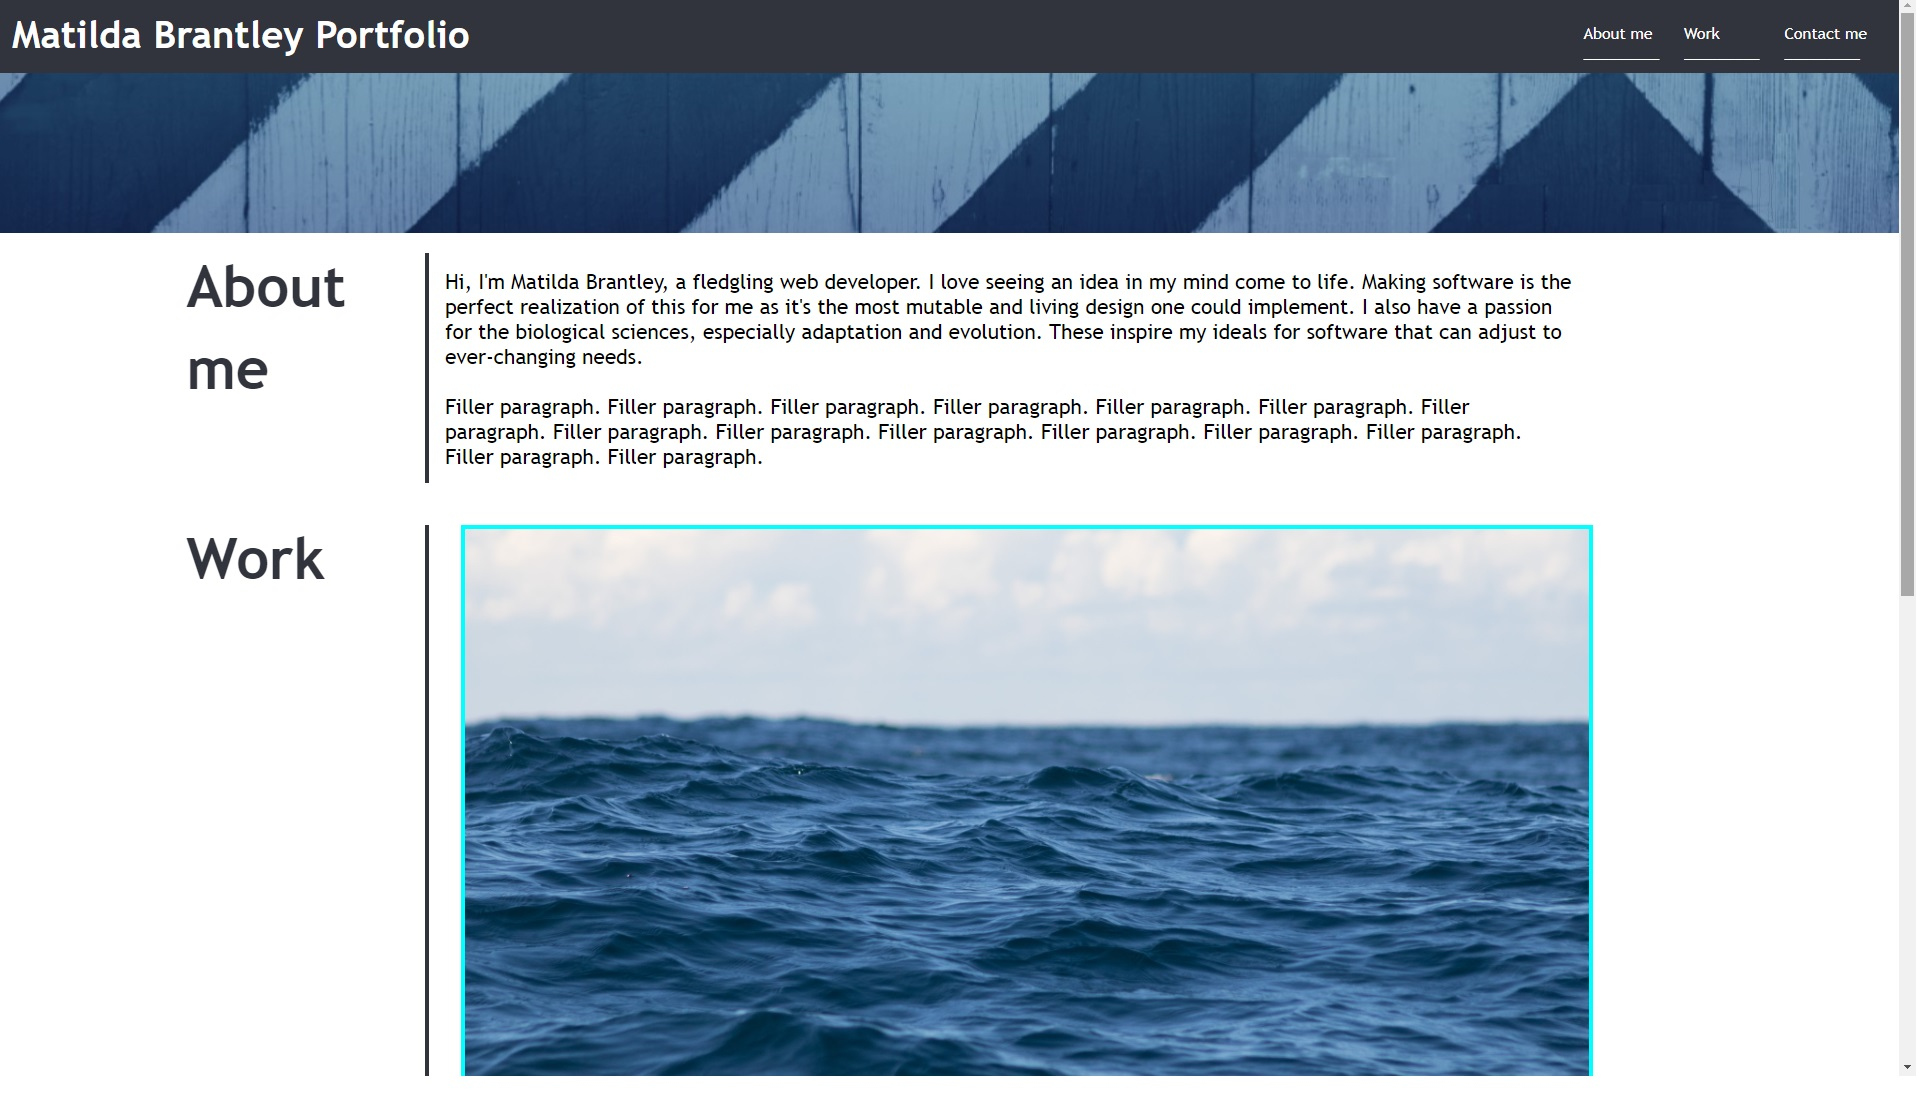
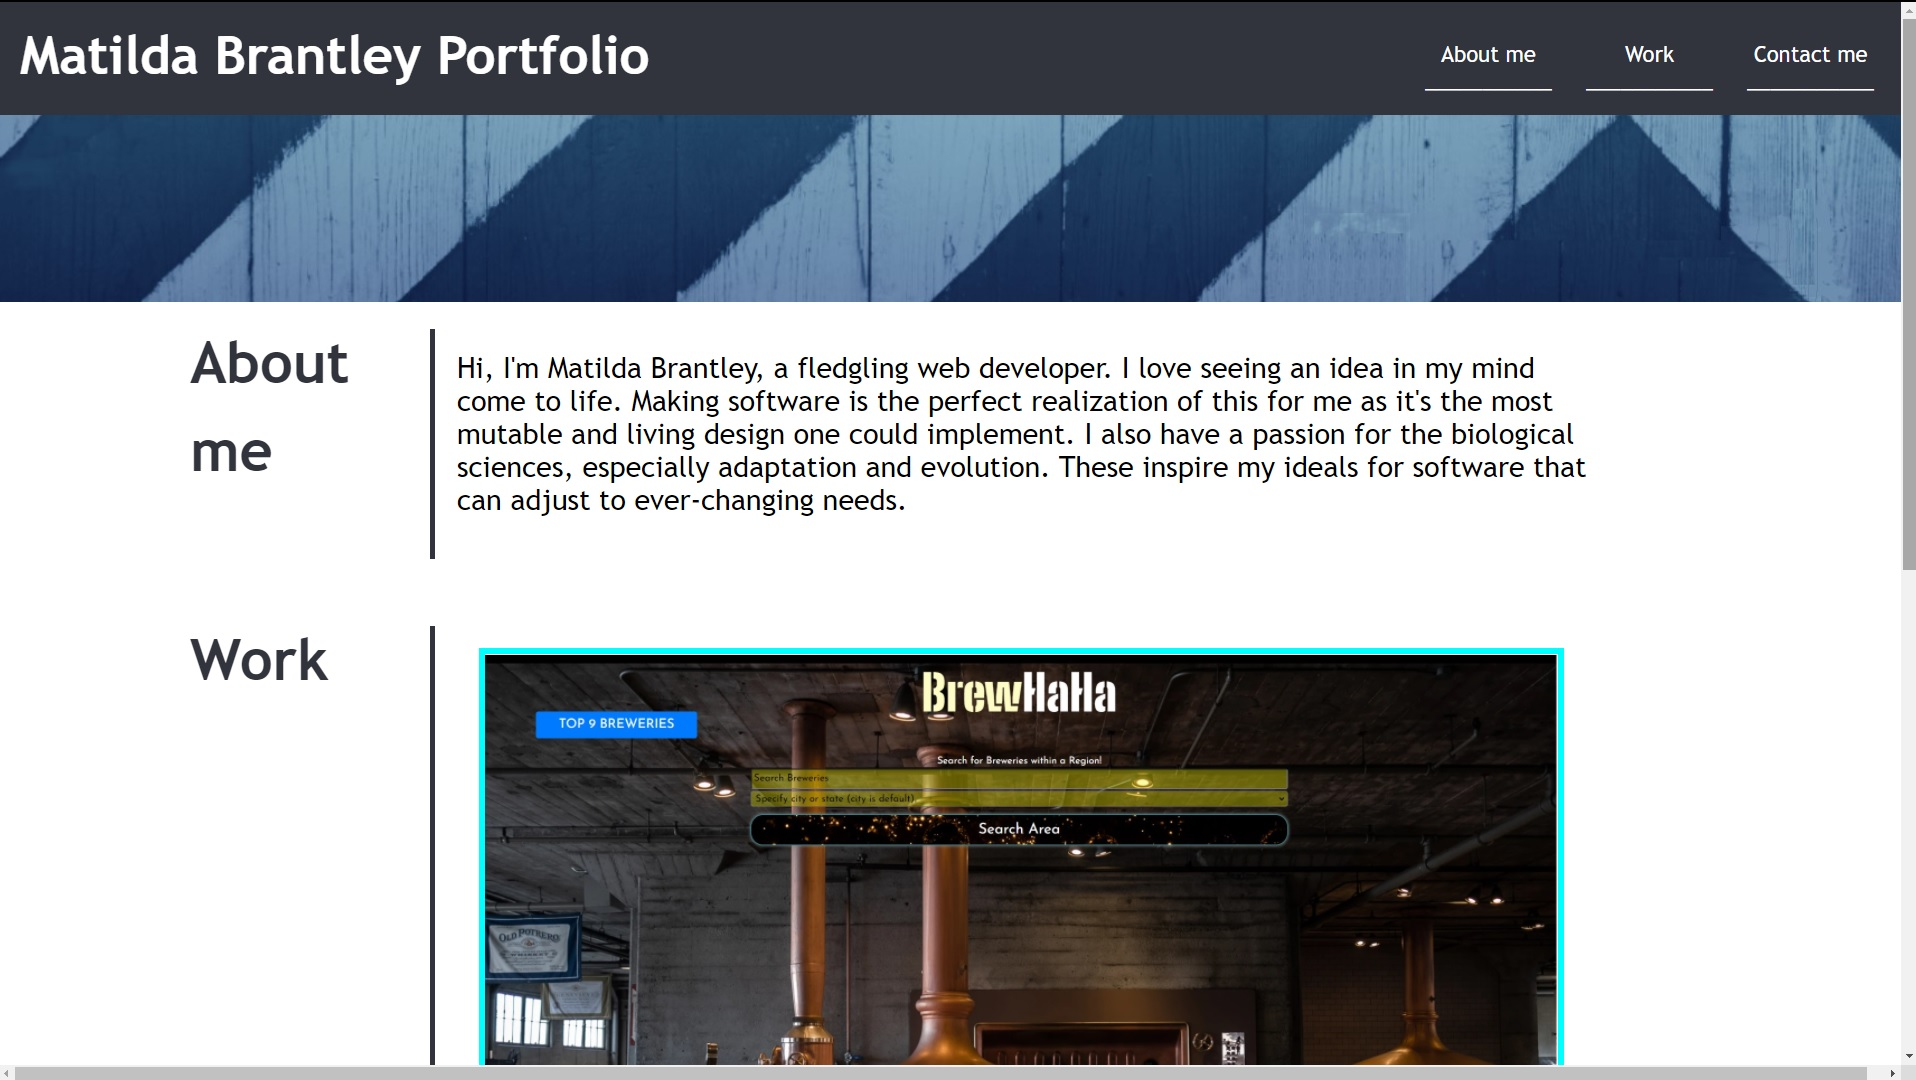
updated work section to reflect my projects, more mobile friendly

diff --git a/index.html b/index.html
@@ -39,78 +39,79 @@
                     I also have a passion for the biological sciences, especially adaptation and evolution. 
                     These inspire my ideals for software that can adjust to ever-changing needs.
                 </p> <br>
-                <p> 
-                    Filler paragraph. Filler paragraph. Filler paragraph. Filler paragraph. Filler paragraph. 
-                    Filler paragraph. Filler paragraph. Filler paragraph. Filler paragraph. Filler paragraph. 
-                    Filler paragraph. Filler paragraph. Filler paragraph. Filler paragraph. Filler paragraph. 
-                </p>
             </div>
         </section>
         <main class="major-section">
-            <div class="section-title">
+            <div id="work-title" class="section-title">
                 <h2>Work</h2>
             </div>
             <div id="cards">
-                <div id="surf-card">
-                    <img src="./assets/images/surf.jpg" class="project-images" alt="Surf Report"/>
-                    <div class="card-title">
-                        <h2>Surf Report</h2>
-                        <p>MERN Stack</p>
+                <a href="https://matildabrantley.github.io/project-one/">
+                    <div id="brew-card">
+                        <img src="./assets/images/brewery.jpg" class="project-images" alt="Brewery"/>
+                        <div class="card-title">
+                            <h2>BrewHaHa</h2>
+                            <p>OpenBrewery & Wikipedia APIs</p>
+                        </div>
                     </div>
-                </div>
+                </a>
 
-                <div class="work-card">
-                    <img src="./assets/images/project1.jpg" class="project-images" alt="LED Wall"/>
-                    <div class="card-title">
-                        <h2>LED Wall</h2>
-                        <p> Node/IoT </p>
+                <a href="https://matildabrantley.github.io/weather-dashboard/">
+                    <div id="weather" class="work-card">
+                        <img src="./assets/images/weather.jpg" class="project-images" alt="Weather Dashboard"/>
+                        <div class="card-title">
+                            <h2>Weather Dashboard</h2>
+                            <p> OpenWeather API </p>
+                        </div>
                     </div>
-                </div>
+                </a>
 
-                <div class="work-card">
-                    <img src="./assets/images/project2.jpg" class="project-images" alt="Calculator"/>
-                    <div class="card-title">
-                        <h2>Calculator</h2>
-                        <p> Javascript/CSS </p>
+                <a href="https://matildabrantley.github.io/work-day-scheduler/">
+                    <div id="planner" class="work-card">
+                        <img src="./assets/images/planner.jpg" class="project-images" alt="Day Planner"/>
+                        <div class="card-title">
+                            <h2>Day Planner</h2>
+                            <p> jQuery, Client-side Storage </p>
+                        </div>
                     </div>
-                </div>
+                </a>
 
-                <div class="work-card">
-                    <img src="./assets/images/project3.jpg" class="project-images" alt="Puzzles"/>
-                    <div class="card-title">
-                        <h2>Puzzles</h2>
-                        <p> MERN Stack </p>
+                <a href="https://matildabrantley.github.io/code-quiz/">
+                    <div id="quiz" class="work-card">
+                        <img src="./assets/images/quiz.jpg" class="project-images" alt="Code Quiz"/>
+                        <div class="card-title">
+                            <h2>Code Quiz</h2>
+                            <p> JavaScript, <br>Dynamic Content</p>
+                        </div>
                     </div>
-                </div>
+                </a>
 
-                <div class="work-card">
-                    <img src="./assets/images/project4.jpg" class="project-images" alt="Run Buddy"/>
-                    <div class="card-title">
-                        <h2>Run Buddy</h2>
-                        <p> HTML/CSS </p>
+                <a href="https://matildabrantley.github.io/password-generator/">
+                    <div id="password-gen" class="work-card">
+                        <img src="./assets/images/dashboard.jpg" class="project-images" alt="Password Generator"/>
+                        <div class="card-title">
+                            <h2>Password Generator</h2>
+                            <p> JavaScript</p>
+                        </div>
                     </div>
-                </div>
+                </a>
             </div> 
         </main>
         
         <footer id="contact-me" class="major-section">
-            <div class="section-title">
-                <h2>Contact</h2><br>
-                <h2>me</h2>
+            <div id="contact-title" class="section-title">
+                <h2>Contact<br>me</h2>
             </div>
             <nav id="contact-links">
                 <ul>
                     <li>
-                        <a href="#phone-number">(555) 555-5555</a>
+                        <a href="#phone-number">(111) 111-1111</a>
                     </li>
                     <li>
                         <a href="#header">My Website</a>
                     </li>
                     <li>
                         <a href="https://github.com/matildabrantley">GitHub</a>
-                    </li>
-                    <li>
-                        <a href="https://twitter.com">Twitter</a>
                     </li>
                 </ul>
             </nav>

diff --git a/assets/css/style.css b/assets/css/style.css
@@ -1,24 +1,26 @@
 /* universal selector */
 * {
     box-sizing: border-box;
-    padding: 0;
     margin: 0;
     font-family: 'Trebuchet MS', 'Lucida Sans Unicode', 'Lucida Grande', 'Lucida Sans', Arial, sans-serif;
 }
+
+/* *:hover {
+    box-shadow: 0px 0px 5px 3px gray;
+} */
 
 .grid-container {
     display: grid;
   
     grid-template-areas:
-      "header header header"
-      "underheader underheader underheader"
-      "about about about"
-      "main main main"
-      "footer footer footer";
+      "header header"
+      "underheader underheader"
+      "about about"
+      "main main"
+      "footer footer";
   
-    grid-template-columns: 0fr 1fr 1fr;
-    grid-template-rows: 0.25fr 0.5fr auto auto;
-    grid-gap: 10px;
+    grid-template-columns: 1fr 1fr;
+    grid-template-rows: 2fr auto auto auto;
   
     height: 95vh;
     width: 100vw;
@@ -28,6 +30,8 @@ body {
     background-color:white;
 }
 
+
+/* Header, Nav Bar */
 header {
     grid-area: header;
     padding: 20px;
@@ -54,11 +58,12 @@ header nav ul {
 header nav li {
     display: inline-block;
     margin-left: 25px;
+    text-align: center;
 }
 
 header nav li::after {
     display: block;
-    content: "_________";
+    content: "___________";
 }
 
 a {
@@ -68,7 +73,7 @@ a {
 
 #underheader {
     grid-area: underheader;
-    height: 200px;
+    height: 170px;
     width: 100%;
     margin-bottom: 25px;
     background-image: url("../images/underheader.jpg");
@@ -95,6 +100,9 @@ a {
     color: rgb(49, 52, 61);
 }
 
+
+
+/*Section - About Me*/
 #about-me {
     grid-area: about;
 }
@@ -106,7 +114,10 @@ a {
     margin: 20px;
 }
 
-/* Work Examples */
+
+
+/* Main - Projects/Work Portfolio */
+/* Nested Grid */
 main {
     grid-area: main;
 }
@@ -119,12 +130,13 @@ main #cards {
     width: 70%;
     display: inline-block;
     margin-left: 20px;
+    padding-top: 20px;
 }
 
-#surf-card {
-    border: 5px solid cyan;
+#brew-card {
+    border: 6px solid cyan;
     height: 100%;
-    width: 100%;
+    width: 95%;
     position: relative;
     font-family: 'Gill Sans', 'Gill Sans MT', Calibri, 'Trebuchet MS', sans-serif;
     color: #ffffff;
@@ -132,8 +144,9 @@ main #cards {
     transition: 0.5s;
 }
 
-#surf-card:hover {
-    filter: brightness(80%) saturate(150%) hue-rotate(45deg);
+#brew-card:hover {
+    filter: brightness(130%) saturate(150%) hue-rotate(25deg);
+    box-shadow: 0px 0px 5px 3px gray;
 }
 
 .project-images{
@@ -151,15 +164,21 @@ main #cards {
     transition: 0.5s;
 }
 
+.work-card img {
+    height: 160px;
+}
+
 .work-card:hover {
-    filter: brightness(80%) saturate(150%) hue-rotate(45deg);
+    filter: brightness(110%) saturate(150%) hue-rotate(45deg);
+    box-shadow: 0px 0px 5px 3px gray;
 }
 
 .card-title {
     position: absolute;
-    bottom: 30px;
-    height: 70px;
+    bottom: 20px;
+    height: 92px;
     width: 150px;
+    padding-left: 5px;
     background-color: cyan;
     color: rgb(49, 52, 61);
 }
@@ -168,6 +187,8 @@ main #cards {
     color: rgb(49, 52, 61);
 }
 
+
+/* Footer - Contact */
 #contact-me {
     grid-area: footer;
     width: 85%;
@@ -197,7 +218,7 @@ main #cards {
 
 #contact-me nav li::after {
     display: block;
-    content: "___________";
+    content: "______________";
 }
 
 #contact-me a {
@@ -205,8 +226,40 @@ main #cards {
     text-decoration: none;
 }
 
+#contact-me a:hover {
+    color: black;
+    padding: 20px;
+    border-radius: 10px;
+    box-shadow: 0px 0px 5px 3px gray;
+}
+
 @media screen and (max-width: 992px) {
     .work-card {
-      width: 100%;
+        width: 90%;
+    }
+
+    .section-title {
+        width: 100%;
+        float: none;
+        border-right: none;
+        border-bottom: solid 5px rgb(49, 52, 61);
+    }
+
+    #work-title {
+        height: 50px;
+    }
+
+    .section-title h2 {
+       font-size: 4vw; 
+    }
+
+    #contact-title {
+        padding-bottom: 100px;
+    }
+
+    #contact-me nav li {
+        display: block;
+        padding-left: 0px;
+        font-size: 40px;
     }
   }

diff --git a/README.md b/README.md
@@ -1,6 +1,8 @@
 # Homework 2 - Portfolio Website
 Build a portfolio from scratch
 
+[Live GitHub Portfolio](https://matildabrantley.github.io/portfolio/)
+
 ## Goals for Portfolio Homework
 
 GIVEN I need to sample a potential employee's previous work
@@ -25,6 +27,14 @@ GIVEN I need to sample a potential employee's previous work
 
 ## Reworks
 * Incorporated many elements into reusable classes, such as major-section, section-title, card-title
+* Switched to CSS Grid to quickly rearrange major elements when needed
 
+## Screenshots
+
+Larger Device Layout:
 
 ![Portfolio Screenshot](assets/images/portfolio-screenshot.jpg)
+
+Mobile Device Layout:
+
+![Portfolio Screenshot](assets/images/mobile-screenshot.jpg)
